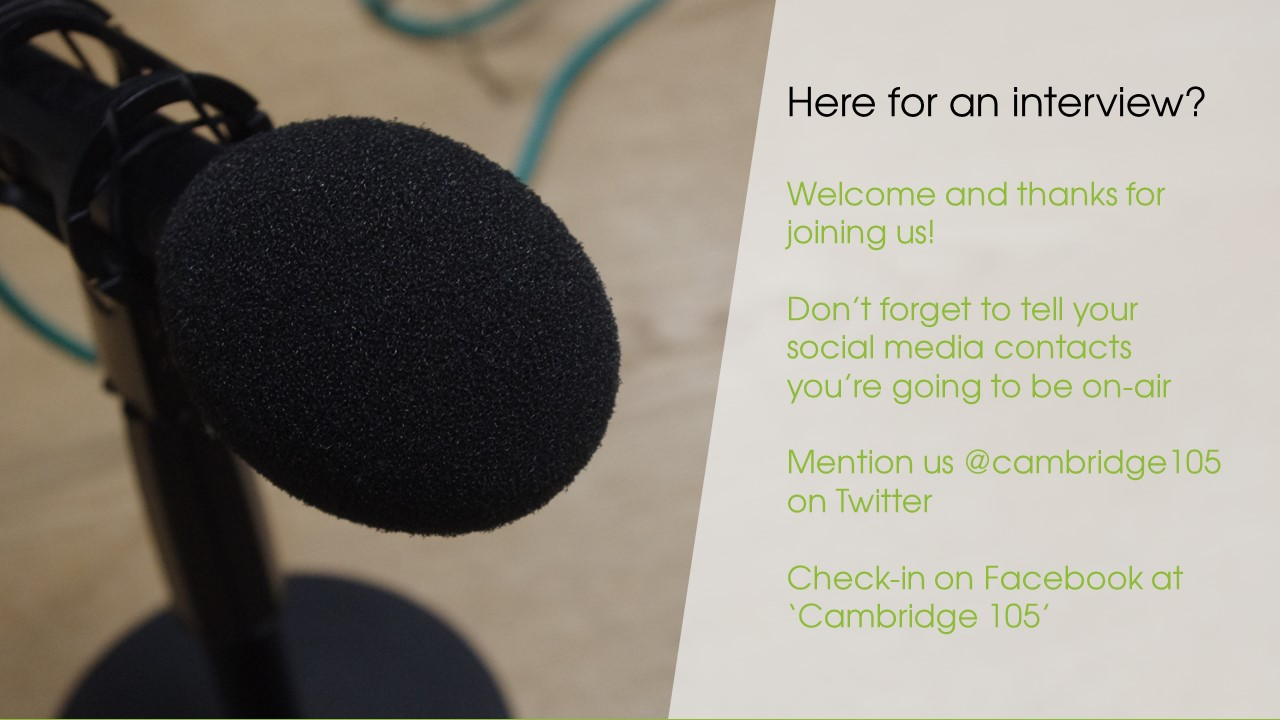
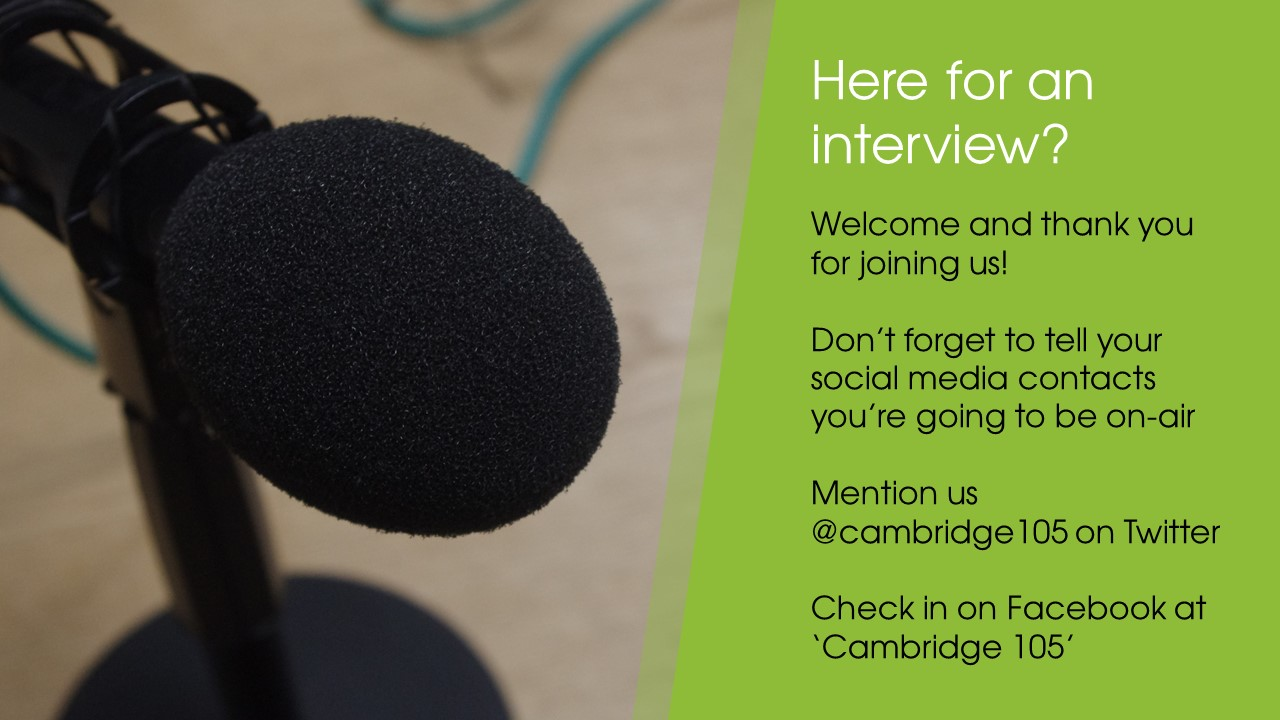
Hopefully the last commit before rebrand

diff --git a/script.js b/script.js
@@ -35,16 +35,18 @@ $(function() {
 });
 
 function loadSlides() {
+	// Note: tempslides is loaded from http://fileserver1/scratch/GREENROOM%20SCREEN/dirlist.php by the calling page
 	if (loadedFromGreenroom)
 	{
 		slideTxt = "<div id='img0' class='slideimg'><img src='slides/welcome.jpg' height='720px' width='1280px'></div>";
 		slideTxt += "<div id='img1' class='slideimg'><img src='slides/how-to-listen.jpg' height='720px' width='1280px'></div>";
-		slideTxt += "<div id='img2' class='slideimg'><img src='slides/coffee-morning.jpg' height='720px' width='1280px'></div>";
-		slideTxt += "<div id='img3' class='slideimg'><img src='slides/home-of-music.jpg' height='720px' width='1280px'></div>";
-		slideTxt += "<div id='img4' class='slideimg'><img src='slides/mill-road.jpg' height='720px' width='1280px'></div>";
-		slideTxt += "<div id='img5' class='slideimg'><img src='slides/south-cambs.jpg' height='720px' width='1280px'></div>";
-		slideTxt += "<div id='img6' class='slideimg'><img src='slides/guests.jpg' height='720px' width='1280px'></div>";
-		maxSlideshowImgs=6;
+		slideTxt += "<div id='img2' class='slideimg'><img src='slides/home-of-music.jpg' height='720px' width='1280px'></div>";
+		slideTxt += "<div id='img3' class='slideimg'><img src='slides/south-cambs.jpg' height='720px' width='1280px'></div>";
+		slideTxt += "<div id='img4' class='slideimg'><img src='slides/guests.jpg' height='720px' width='1280px'></div>";
+		for (i = 0; i < tempslides.length; i++) {
+			slideTxt += "<div id='img" + (i+5) + "' class='slideimg'><img src='http://fileserver1/scratch/GREENROOM%20SCREEN/" + tempslides[i] + "' height='720px' width='1280px'></div>";
+		}
+		maxSlideshowImgs=tempslides.length + 4;
 		$('#slideshow').html(slideTxt);
 	}
 }
@@ -93,7 +95,13 @@ function updateTimer() {
     micLiveStatus = getMicLiveStatus();
 	getStudioStatus();
     checkForScheduledNotices(dateParts);
-	if (loadedFromGreenroom && dateParts[1] == 2 && dateParts[2] == 0) {allowGreenroomSlideAnimation = true; loadSlides(); $('#specialNotice').css("visibility","hidden");} // Slides need reloading as the news graphic replaces the div
+	if (loadedFromGreenroom && dateParts[1] == 2 && dateParts[2] == 0) 
+	{
+		// Reset the slides animation at xx:02:00
+		allowGreenroomSlideAnimation = true; 
+		$('#slideshowOverlay').css("display", "none");
+		$('#specialNotice').css("visibility","hidden");
+	} 
 	if (loadedFromGreenroom) {checkForSlideRotate();}
 	//displayNetworkMessage();
     // Only load the schedule at xx:00:00, xx:30:00
@@ -241,7 +249,8 @@ function displayGreenroomNews(type) {
 	if ($('#slideshow').html().indexOf('news.jpg') < 1)
 	{
 		dateParts = getDateParts();
-		$('#slideshow').html('<img src="slides/news.jpg" height="720px" width="1280px">');
+		$('#slideshowOverlay').html('<img src="slides/news.jpg" height="720px" width="1280px">');
+		$('#slideshowOverlay').css("display", "block");
 		hours12 = dateParts[0];
 		if (hours12 > 12) {hours12 = hours12 - 12;} // 12-hour clock
 		newsintro = "&quot;From the " + type + " at " + hours12 + "...&quot;";
@@ -271,9 +280,10 @@ function displayTOTHNotice(mins,secs) {
     else if (secsToTOTH < 0) 
 	{
         $('#' + divToFill).html('&quot;Online, on Digital and on FM...');
-		if ($('#slideshow').html().indexOf('toth.jpg') < 1)
+		if ($('#slideshowOverlay').html().indexOf('toth.jpg') < 1)
 		{
-			$('#slideshow').html('<img src="slides/toth.jpg" height="720px" width="1280px">');
+			$('#slideshowOverlay').html('<img src="slides/toth.jpg" height="720px" width="1280px">');
+			$('#slideshowOverlay').css("display", "block");
 			allowGreenroomSlideAnimation = false;
 		}
     }
@@ -350,11 +360,9 @@ function displayProgrammeName() {
 	{
 		$('#onNowBar').html(thisProg);
 		$('#onNextBar').html(nextProg);
-		var nextProgHumanDate = new Date(thisProgEnds);
-		var nextProgHumanHours = nextProgHumanDate.getHours();
-		if (nextProgHumanHours > 12) {nextProgHumanHours = nextProgHumanHours-12; nextProgHumanHours = nextProgHumanHours + "pm:";}
-		  else {nextProgHumanHours = nextProgHumanHours + "am:";}
-		$('#nextLabel').html(nextProgHumanHours);
+		var nextProgTime = new Date(thisProgEnds);
+		var nextProgTime = setLeadingZeros(nextProgTime.getHours()) + ":" + setLeadingZeros(nextProgTime.getMinutes());
+		$('#nextLabel').html(nextProgTime);
 		if (thisProg.length < 1) { $('#onNowBar').html("Failed to load schedule"); $('#onNextBar').html("-"); }
 	}
 	else 
@@ -363,6 +371,12 @@ function displayProgrammeName() {
         $('#footer').html(thisProg);
         if (thisProg.length < 1) { $('#footer').html("Failed to load schedule"); }
 	}
+}
+
+function setLeadingZeros(myInt) {
+	myInt = myInt + ""; // Force cast to string
+	if (myInt.length > 1) {return myInt;}
+	else {return "0" + myInt;}
 }
 
 function loadSchedule() {

diff --git a/greenroom.html b/greenroom.html
@@ -7,6 +7,7 @@
     <!--[if IE]><script type="text/javascript" src="clock/excanvas.js"></script><![endif]-->
 <script type="text/javascript" src="clock/coolclock.js"></script>
 <script type="text/javascript" src="clock/moreskins.js"></script>
+    <script type="text/javascript" src="http://fileserver1/scratch/GREENROOM%20SCREEN/dirlist.php"></script>
     <script type="text/javascript" src="script.js"></script>
 </head>
 <body onunload="unloadTimeout()">
@@ -15,8 +16,15 @@
 <div style="min-height:928px; max-height:928px; min-width:1650px; max-width:1650px; border: 1px solid black; padding:0; margin:0;">
   <div id="slideshow">
   </div>
+  <div id="slideshowOverlay">OVerlay
+  </div>
   <div id="righthandBar">
-  
+  <div id="clockGroup">
+	<div id="clock">
+            <canvas id="clockid"></canvas>
+        </div>
+        <div id="clockText"><span id="time">00:00:00</span><br /><span id="date">Monday, 1st January 1970</span></div>
+	</div>
    <div id="buttonsGroup">
     <div id="studioA" class="small-light">Studio A</div>
 	<div id="studioB" class="small-light">Studio B</div>
@@ -24,12 +32,7 @@
 	<br /><br />
     <div id="micLive" class="light">MIC LIVE - A</div>
    </div>
-   <div id="clockGroup">
-	<div id="clock">
-            <canvas id="clockid"></canvas>
-        </div>
-        <div id="clockText"><span id="time">00:00:00</span><br /><span id="date">Monday, 1st January 1970</span></div>
-	</div>
+   
   </div>
   <div id="onNowBar">
   Waiting to load schedule...
@@ -42,8 +45,8 @@
   </div>
 </div>
 
-<div id="nowLabel">NOW:</div>
-<div id="nextLabel">NEXT:</div>
+<div id="nowLabel">NOW</div>
+<div id="nextLabel">NEXT</div>
 
 <div id="specialNotice">
   <div id="specialNoticeContent">&quot;From the Cambridge newsdesk at ...&quot;</div>

diff --git a/greenroom.css b/greenroom.css
@@ -20,6 +20,21 @@ div#slideshow {
 	float:left; 
 	border-bottom:3px solid #8ebb38; 
 }
+div#slideshowOverlay {
+	min-height:720px; 
+	max-height:720px; 
+	min-width:1280px; 
+	max-width:1280px; 
+	background-color:#aaa; 
+	padding:0; 
+	margin:0; 
+	float:left; 
+	z-index:10;
+	position:absolute;
+	top:10px;
+	left:10px;
+	display:none;
+}
 div#righthandBar {
 	min-height:710px; 
 	max-height:710px; 
@@ -34,8 +49,8 @@ div#righthandBar {
 	border-bottom:3px solid #8ebb38; 
 }
 div#buttonsGroup {
-	margin-top:30px; 
-	margin-bottom:240px;
+	margin-top:20px; 
+	margin-bottom:30px;
 }
 div#clockGroup {
 	margin:20 auto; 
@@ -94,7 +109,7 @@ div#nextLabel {
 	top:835px; 
 	left:9px; 
 	min-width:150px; 
-	height:79px; 
+	height:80px; 
 	background-color:#8ebb38; 
 	color:#fff; 
 	text-align:center; 
@@ -109,16 +124,14 @@ div#nextLabel {
 div#specialNotice {
 	position:absolute; 
 	top:7px; 
-	left:587px; 
+	left:615px; 
 	min-width:700px; 
 	max-width:702px; 
 	height:674px; 
-	background-color:rgba(142,187,56,0.7); 
-	z-index:1; 
+	z-index:15; 
 	margin:0; 
 	padding:0;  
 	padding-top:50px;
-	clip-path: polygon(20% 0, 100% 0, 100% 100%, 0% 100%); 
 	visibility: hidden;
 	font-size:40pt;
 }
@@ -142,12 +155,12 @@ canvas#clockid {
 div#clockText {
     font-size: 36pt;
     text-align: center;
-    margin-bottom:5px;
+    margin-bottom:0px;
 	width:362px;
 	
 }
 span#date {
-    visibility:hidden;
+    display:none;
 }
 div.light {
     border: solid 2px #808080;

diff --git a/style.css b/style.css
@@ -67,7 +67,7 @@ div#flash-container {
     width: 100%;
     background-color: red;
     color: white;
-        animation-name: example;
+    animation-name: example;
     animation-duration: 4s;
     
 }
@@ -104,9 +104,17 @@ span.countdown {
     font-weight:bold;
 }
 span.contactInfo {
-    color: lime;
+    color: #8ebb38;
     font-weight:bold;
     margin:0 20px;
+}
+div#stationlogo {
+	position:absolute;
+	top:5px;
+	left:5px;
+	z-index:2;
+	width:200px;
+	height:83px;
 }
 
 @keyframes pulsing-light-background {

diff --git a/index.html b/index.html
@@ -29,6 +29,7 @@
     </div>
     <div id="contact"> <span class="contactInfo">07919 070490</span> <span class="contactInfo">studio@cambridge105.co.uk</span> <span class="contactInfo">@cambridge105</span>
     </div>
+	<div id="stationlogo"><img src="logo.png" width="200px" height="83px"></div>
     <div id="flash-container"><div id="flash-message">&nbsp;</div></div>
 </body>
 </html>
